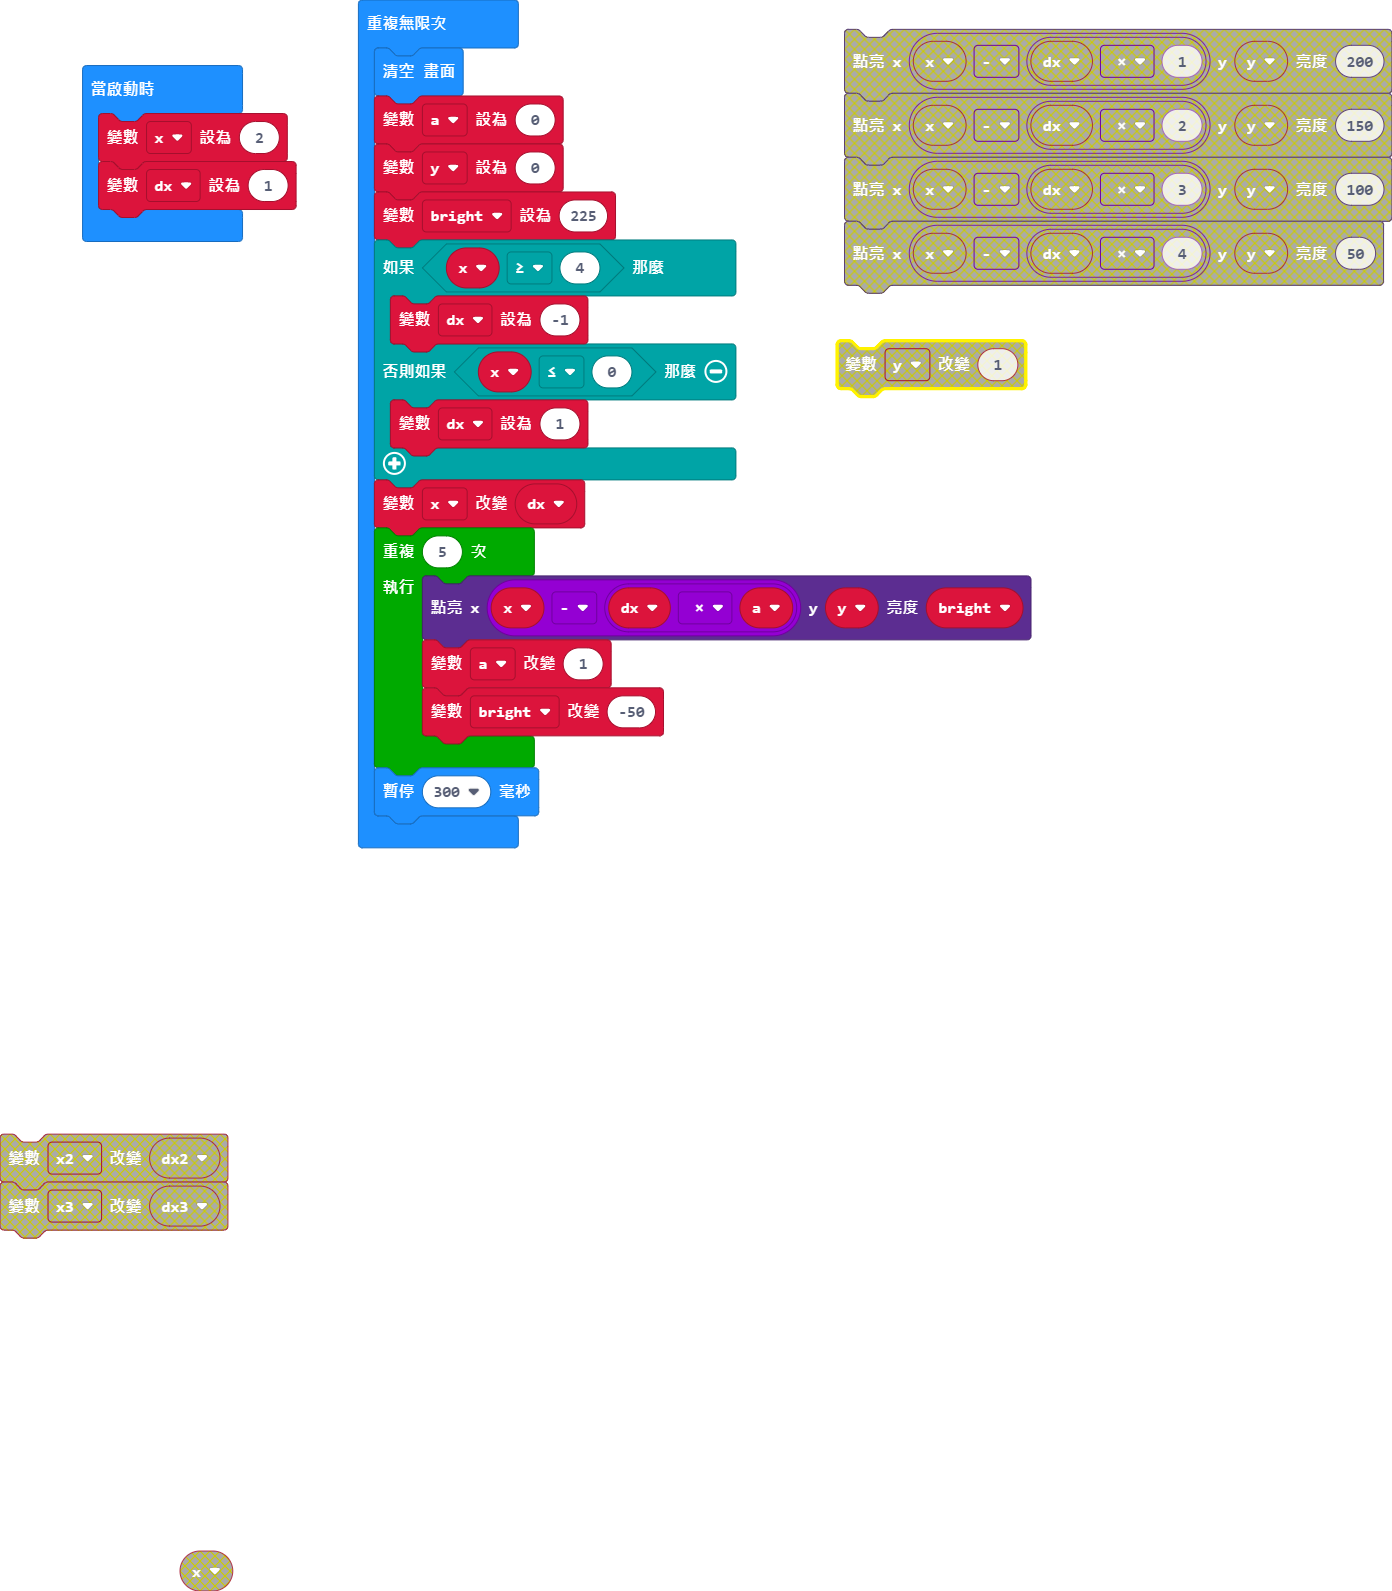
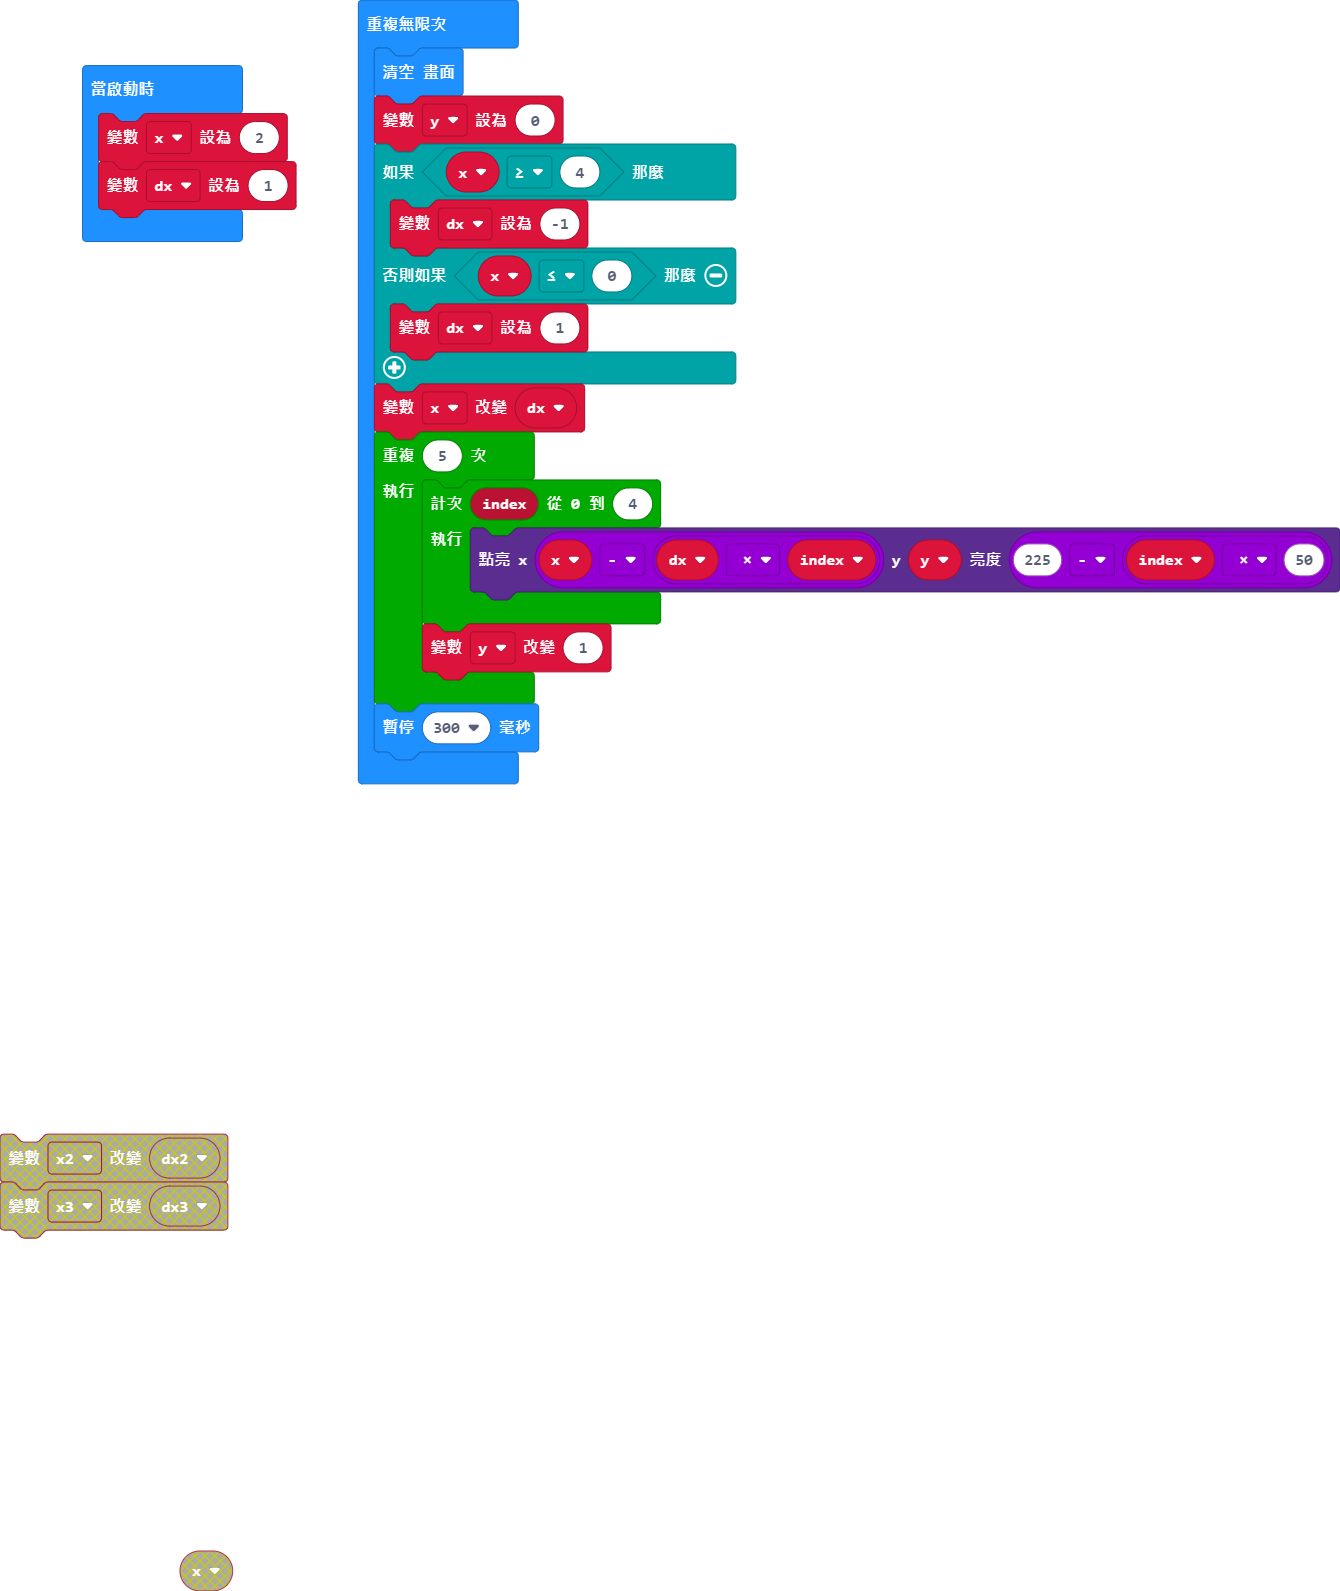
更新 main.blocks, main.ts

diff --git a/main.ts b/main.ts
@@ -1,13 +1,9 @@
-let bright = 0
 let y = 0
-let a = 0
 let x = 2
 let dx = 1
 basic.forever(function () {
     basic.clearScreen()
-    a = 0
     y = 0
-    bright = 225
     if (x >= 4) {
         dx = -1
     } else if (x <= 0) {
@@ -15,9 +11,10 @@ basic.forever(function () {
     }
     x += dx
     for (let index = 0; index < 5; index++) {
-        led.plotBrightness(x - dx * a, y, bright)
-        a += 1
-        bright += -50
+        for (let index = 0; index <= 4; index++) {
+            led.plotBrightness(x - dx * index, y, 225 - index * 50)
+        }
+        y += 1
     }
     basic.pause(300)
 })
